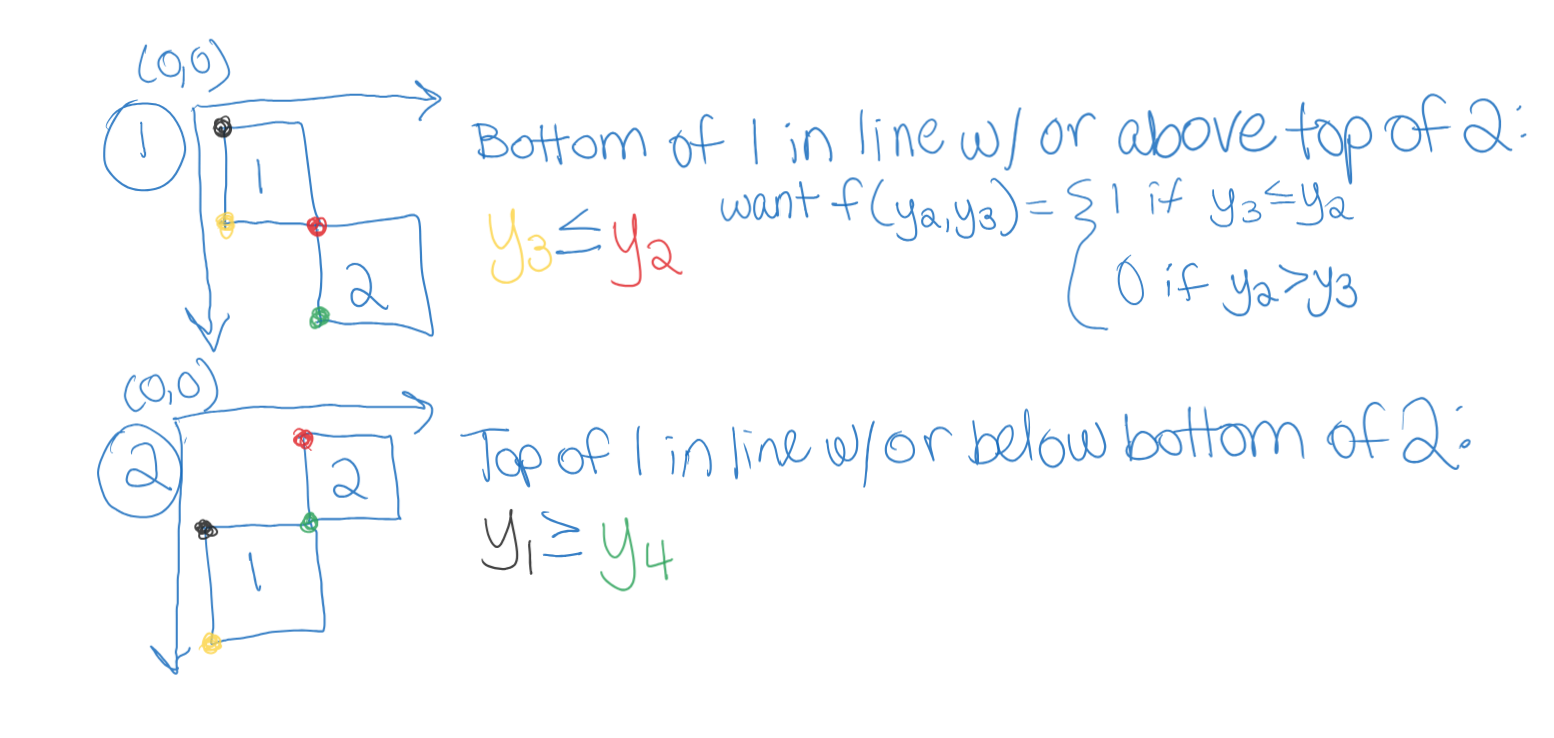
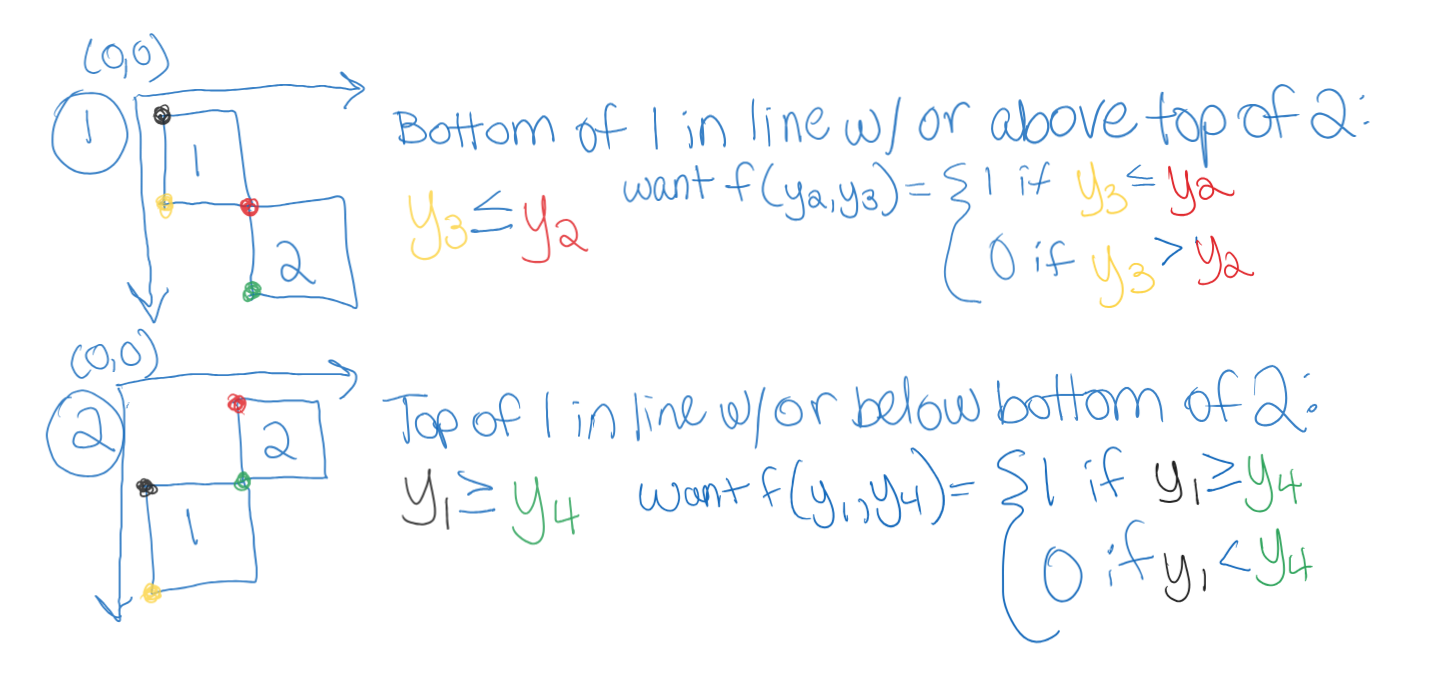
fixed typos and updated image

diff --git a/README.md b/README.md
@@ -9,8 +9,8 @@ I made due with that tool at the time just to get the project done, but I swore 
 ## Assumptions:
 First, let's list our assumptions:
 * The user only intends to cut the stock boards along their two largest dimensions. (eg, they will never cut/plane a 8' x 4' x 0.75" board down to a 8' x 4' x 0.5" board.) The consequence of this assumption is that we only consider cutting BOM items of a given thickness from stock items of the same thickness.
-* Grain direction doesn't matter. In other words, the user does not mind if some of the grain "points" vertically on one board and points horizontally on another. The consequence of this assumption is that we don't have to know - or consider - grain direction when "rotating" BOM items to fit them together on a stock board.
-* The user does not care about which wood species their pieces come from.
+* Grain direction doesn't matter. In other words, the user does not mind if some of the grain "points" vertically on one board and "points" horizontally on another. The consequence of this assumption is that we don't have to consider - or even know - grain direction when "rotating" BOM items to fit them together on a stock board.
+* The user does not care about which wood species their pieces come from. They simply want to minimize cost.
 * All pieces in the BOM, and all pieces of stock wood, are rectangular prisms.
 * The solution is feasible.
 
@@ -48,7 +48,7 @@ For model simplicity, $j$ is one **instance** of a stock board with given dimens
 *Needs to be defined
 
 ### Objective Function & Decision Variables, Attempt 2:
-Based on the above, we need to come up with a reasonable upper limit for the quantity of each stock board required to fulfill our BOM. Because we are assuming feasibility, we know that in the worst case scenario, we can only cut one of our BOM boards from each stock board we buy. Of course, we don't know right off the bat which size of stock board would be paired with each BOM item in this worst case. So, a conservative upper limit would be one of *each* type of stock board *per* BOM item.
+Based on the above, we need to come up with a reasonable upper limit for the quantity of each stock board required to fulfill our BOM. Because we are assuming feasibility, we know that in the worst case, we can only cut one of our BOM boards from each stock board we buy. Of course, we don't know right off the bat which size of stock board would be paired with each BOM item in this worst case. So, a conservative upper limit would be one of *each* type of stock board *per* BOM item.
 
 Objective is still to minimize cost, but we need to expand on $q_i$:  
 
@@ -106,7 +106,7 @@ $x_i:$ x coordinate of BOM item $i$'s upper left corner with respect to the uppe
 
 $y_i:$ y coordinate of BOM item $i$'s upper left corner with respect to the upper left corner of the stock board from which it's cut
 
-Looking again at the example cut pattern above, there's one more element to this problem that we haven't yet considered. To enable the model to rotate boards, we will also need a decision variable to indicated whether a BOM item is "rotated" with respect to the stock sheet from which it's cut. A BOM item will be considered "rotated" if its longest dimension is **NOT** parallel to the stock board's longest dimension. Call this additional decision variable $r_i$, where:
+Looking again at the example cut pattern above, there's one more element to this problem that we haven't yet considered. To enable the model to rotate boards, we will also need a decision variable to indicate whether a BOM item is "rotated" with respect to the stock sheet from which it's cut. A BOM item will be considered "rotated" if its longest dimension is **NOT** parallel to the stock board's longest dimension. Call this additional decision variable $r_i$, where:
 
 $`r_i = \begin{cases} 1 & \text{if BOM item } i \text{ is rotated wrt its stock board} \\ 0 & \text{otherwise} \end{cases}`$ 
 
